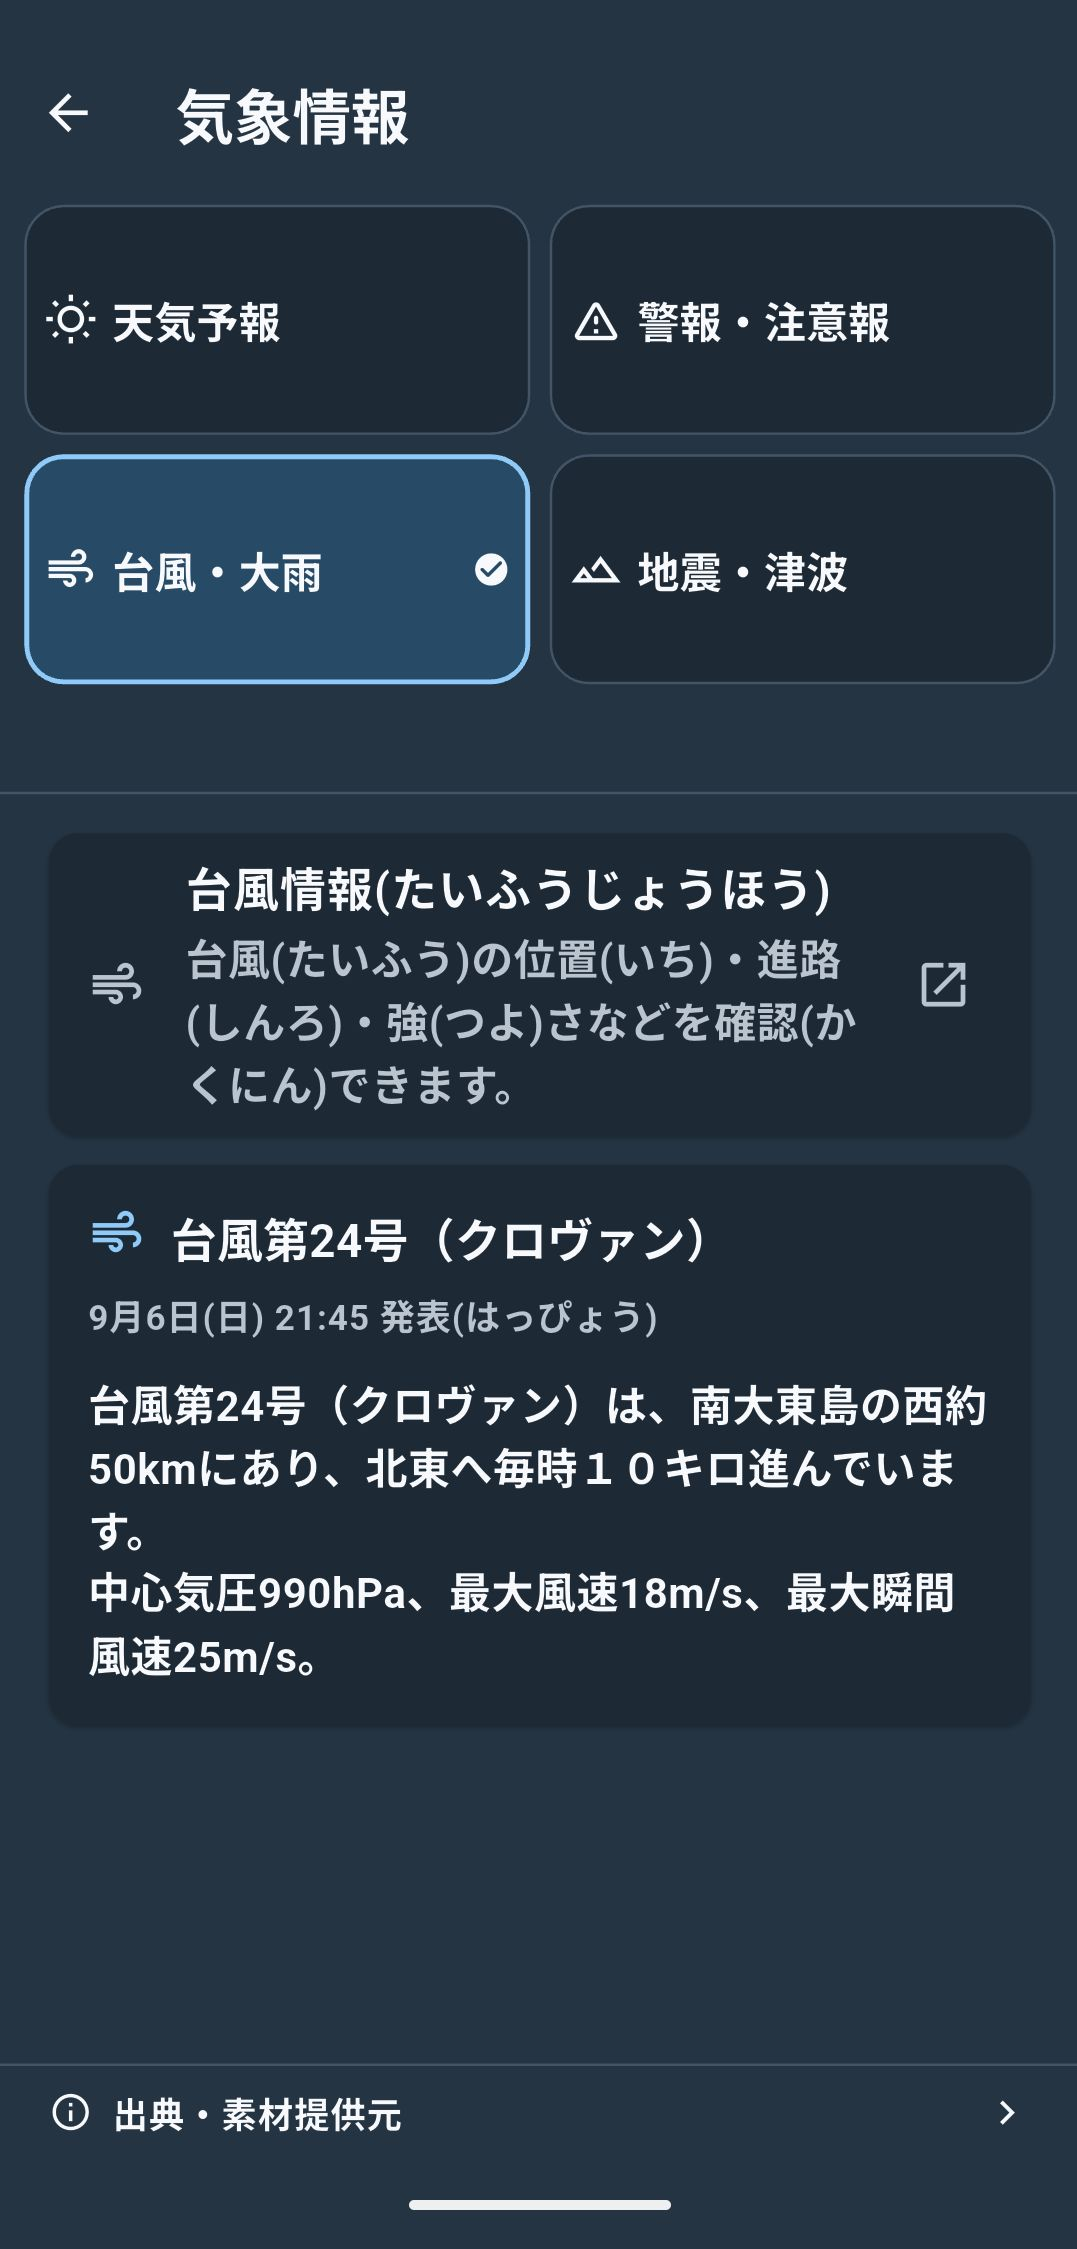
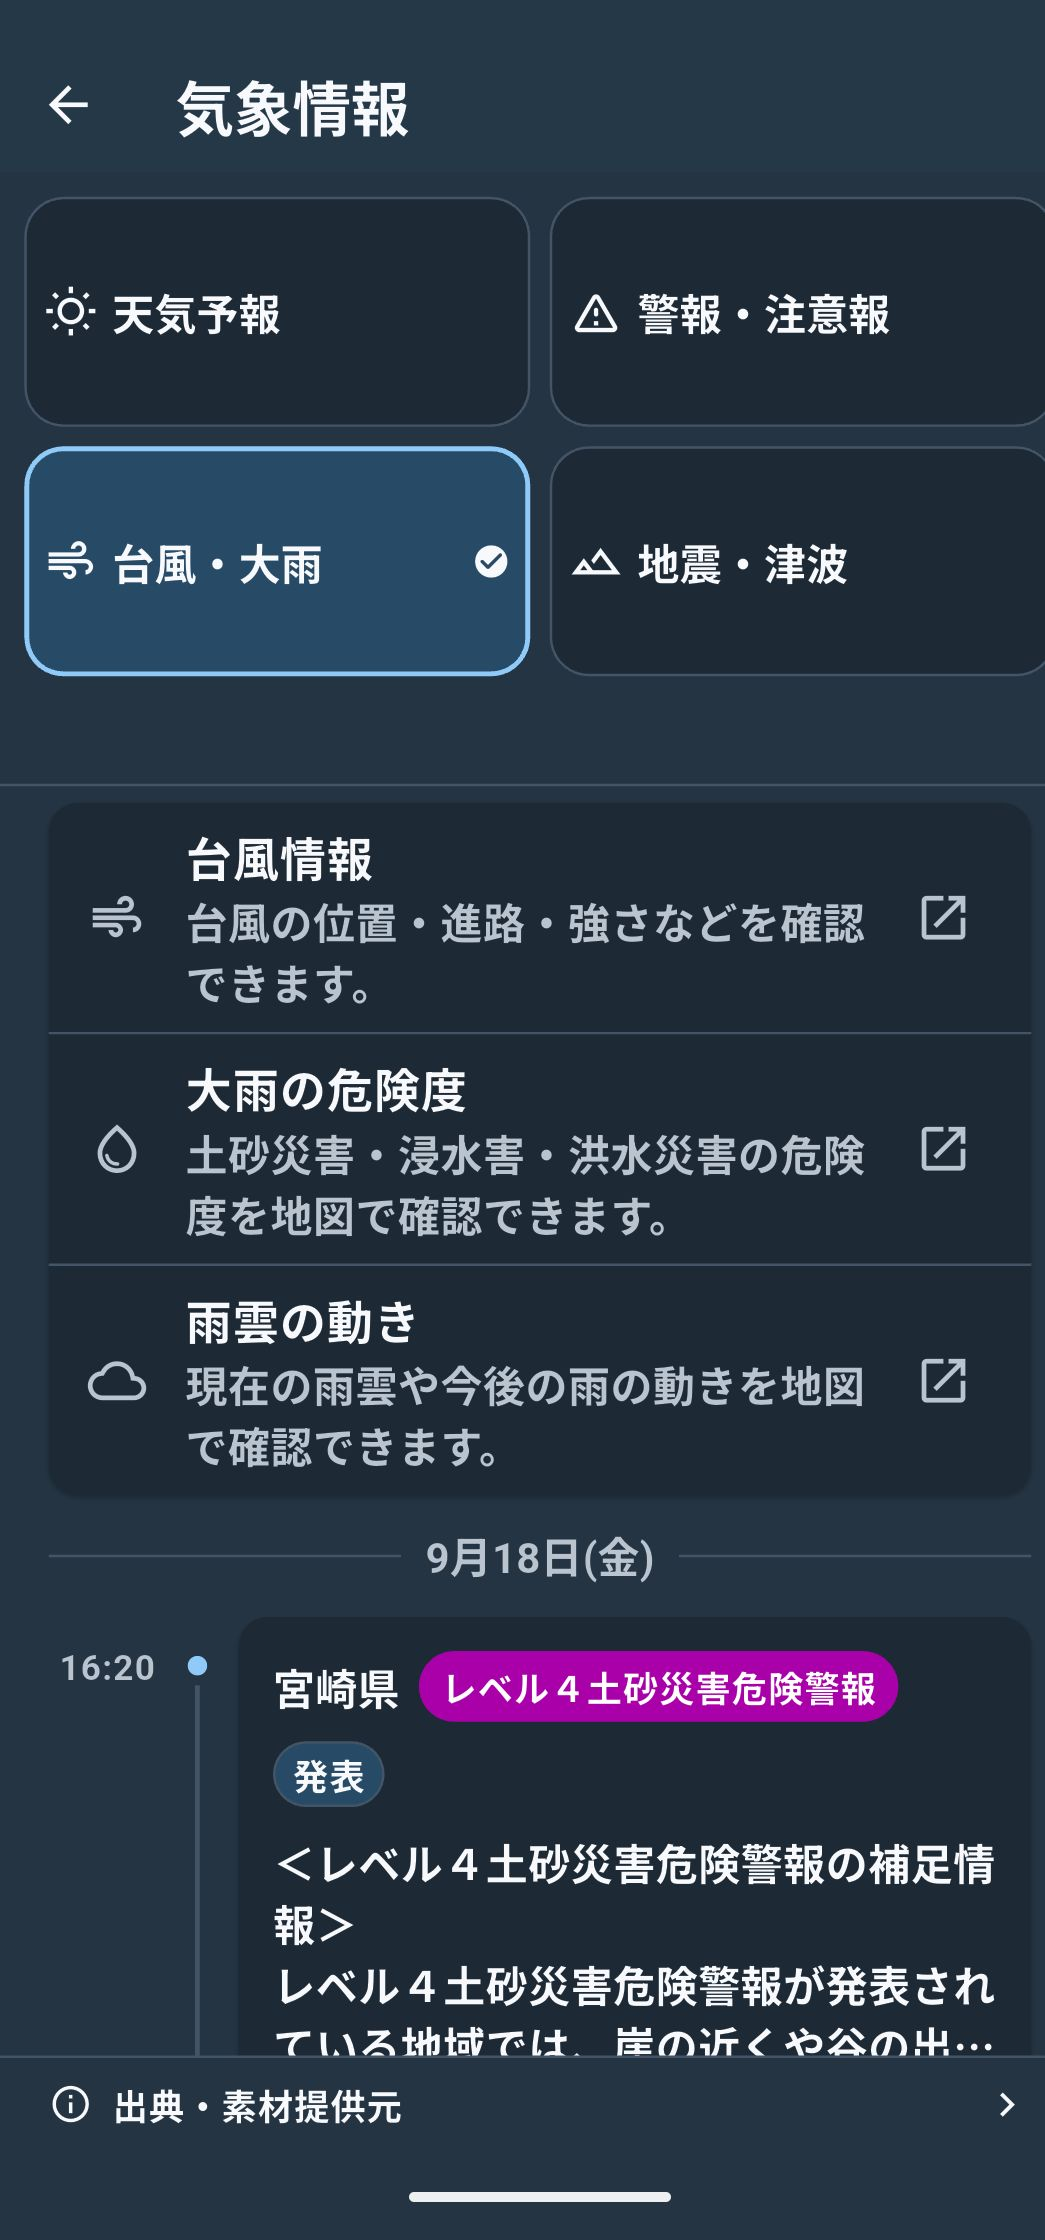
feat(web): update image

diff --git a/index.html b/index.html
@@ -361,11 +361,11 @@
         <div class="screenshot-trio">
           <figure>
             <img
-              src="./assets/images/tsunagubosai-weather2.png"
-              alt="警報・注意報を確認する気象情報画面"
+              src="./assets/images/tsunagubosai-widget.png"
+              alt="天気ウィジェット"
               class="phone-screenshot"
             >
-            <figcaption>警報・注意報</figcaption>
+            <figcaption>天気ウィジェット</figcaption>
           </figure>
 
           <figure>
